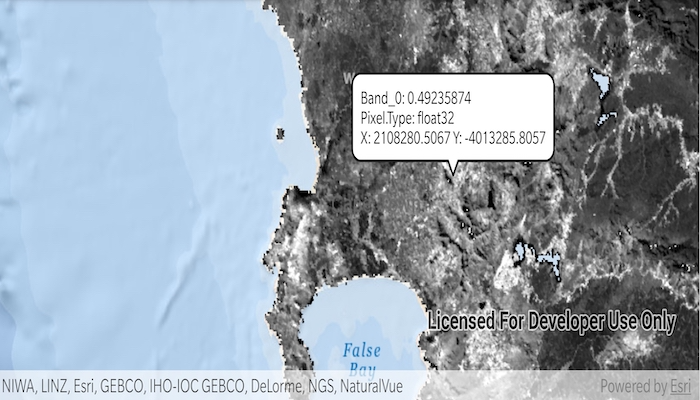
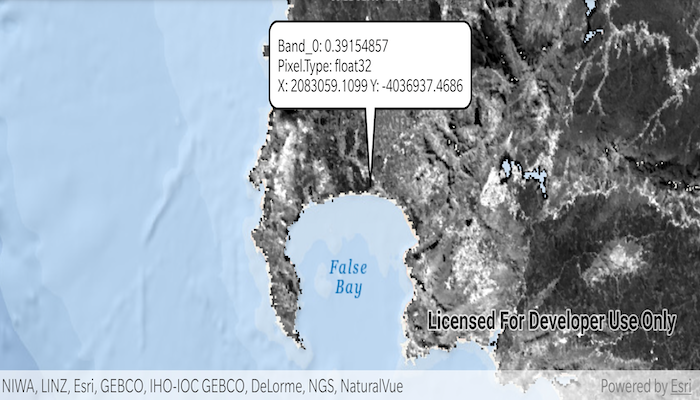
PR fixes

diff --git a/kotlin/identify-raster-cell/src/main/java/com/esri/arcgisruntime/sample/identifyrastercell/MainActivity.kt b/kotlin/identify-raster-cell/src/main/java/com/esri/arcgisruntime/sample/identifyrastercell/MainActivity.kt
@@ -31,7 +31,6 @@ import com.esri.arcgisruntime.raster.Raster
 import com.esri.arcgisruntime.raster.RasterCell
 import kotlinx.android.synthetic.main.activity_main.*
 
-
 class MainActivity : AppCompatActivity() {
 
   private var rasterLayer: RasterLayer? = null
@@ -57,16 +56,15 @@ class MainActivity : AppCompatActivity() {
       // add the map to the map view
       map = rasterMap
 
-      // set behavior for double touch drag and on up gestures
+      // set behavior for double touch drag and on single tap gestures
       onTouchListener = object : DefaultMapViewOnTouchListener(this@MainActivity, mapView) {
         override fun onDoubleTouchDrag(e: MotionEvent): Boolean {
-          val offset = 200
-          // identify the pixel at a vertical offset from the motion event
-          identifyPixel(Point(e.x.toInt(), e.y.toInt() - offset))
+          // identify the pixel at the given screen point
+          identifyPixel(Point(e.x.toInt(), e.y.toInt()))
           return true
         }
 
-        override fun onUp(e: MotionEvent): Boolean {
+        override fun onSingleTapConfirmed(e: MotionEvent): Boolean {
           // identify the pixel at the given screen point
           identifyPixel(Point(e.x.toInt(), e.y.toInt()))
           return true
@@ -119,6 +117,7 @@ class MainActivity : AppCompatActivity() {
           mapView.callout.apply {
             location = mapView.screenToLocation(screenPoint)
             content = calloutContent
+            style.leaderLength = 64
           }.show()
         }
       }

diff --git a/kotlin/identify-raster-cell/README.md b/kotlin/identify-raster-cell/README.md
@@ -14,11 +14,10 @@ Tap or double tap drag an area of the raster to identify it and see the raster c
 
 ## How it works
 
-1. Create an `DefaultMapViewOnTouchListener` on the `MapView`.
+1. Create a `DefaultMapViewOnTouchListener` on the `MapView`.
 2. On tap or double tap drag:
-   * Dismiss the `Callout`, if one is showing.
    * Call `identifyLayerAsync(...)` passing in the raster layer, screen point, tolerance, and maximum number of results per layer.
-   * Add a done loading listener for the result of the identify and then get the `GeoElement` from the layer result.
+   * Add a done loading listener for the result of the identify and then get the `GeoElement` from the layer result and get any `RasterCell`s from them.
    * Create a callout at the calculated map point and populate the callout content with text from the `RasterCell` attributes.
    * Show the callout.
 
@@ -29,6 +28,13 @@ Tap or double tap drag an area of the raster to identify it and see the raster c
 * RasterCell
 * RasterCell.attributes
 * RasterLayer
+* 
+## Offline Data
+
+1. Download the data from [ArcGIS Online](https://arcgisruntime.maps.arcgis.com/home/item.html?id=b5f977c78ec74b3a8857ca86d1d9b318).
+2. Open your command prompt and navigate to the folder where you extracted the contents of the data from step 1.
+3. Push the data into the scoped storage of the sample app:
+`adb push SA_EVI_8Day_03May20 /Android/data/com.esri.arcgisruntime.sample.identifyrastercell/files/SA_EVI_8Day_03May20`
 
 ## About the data
 
